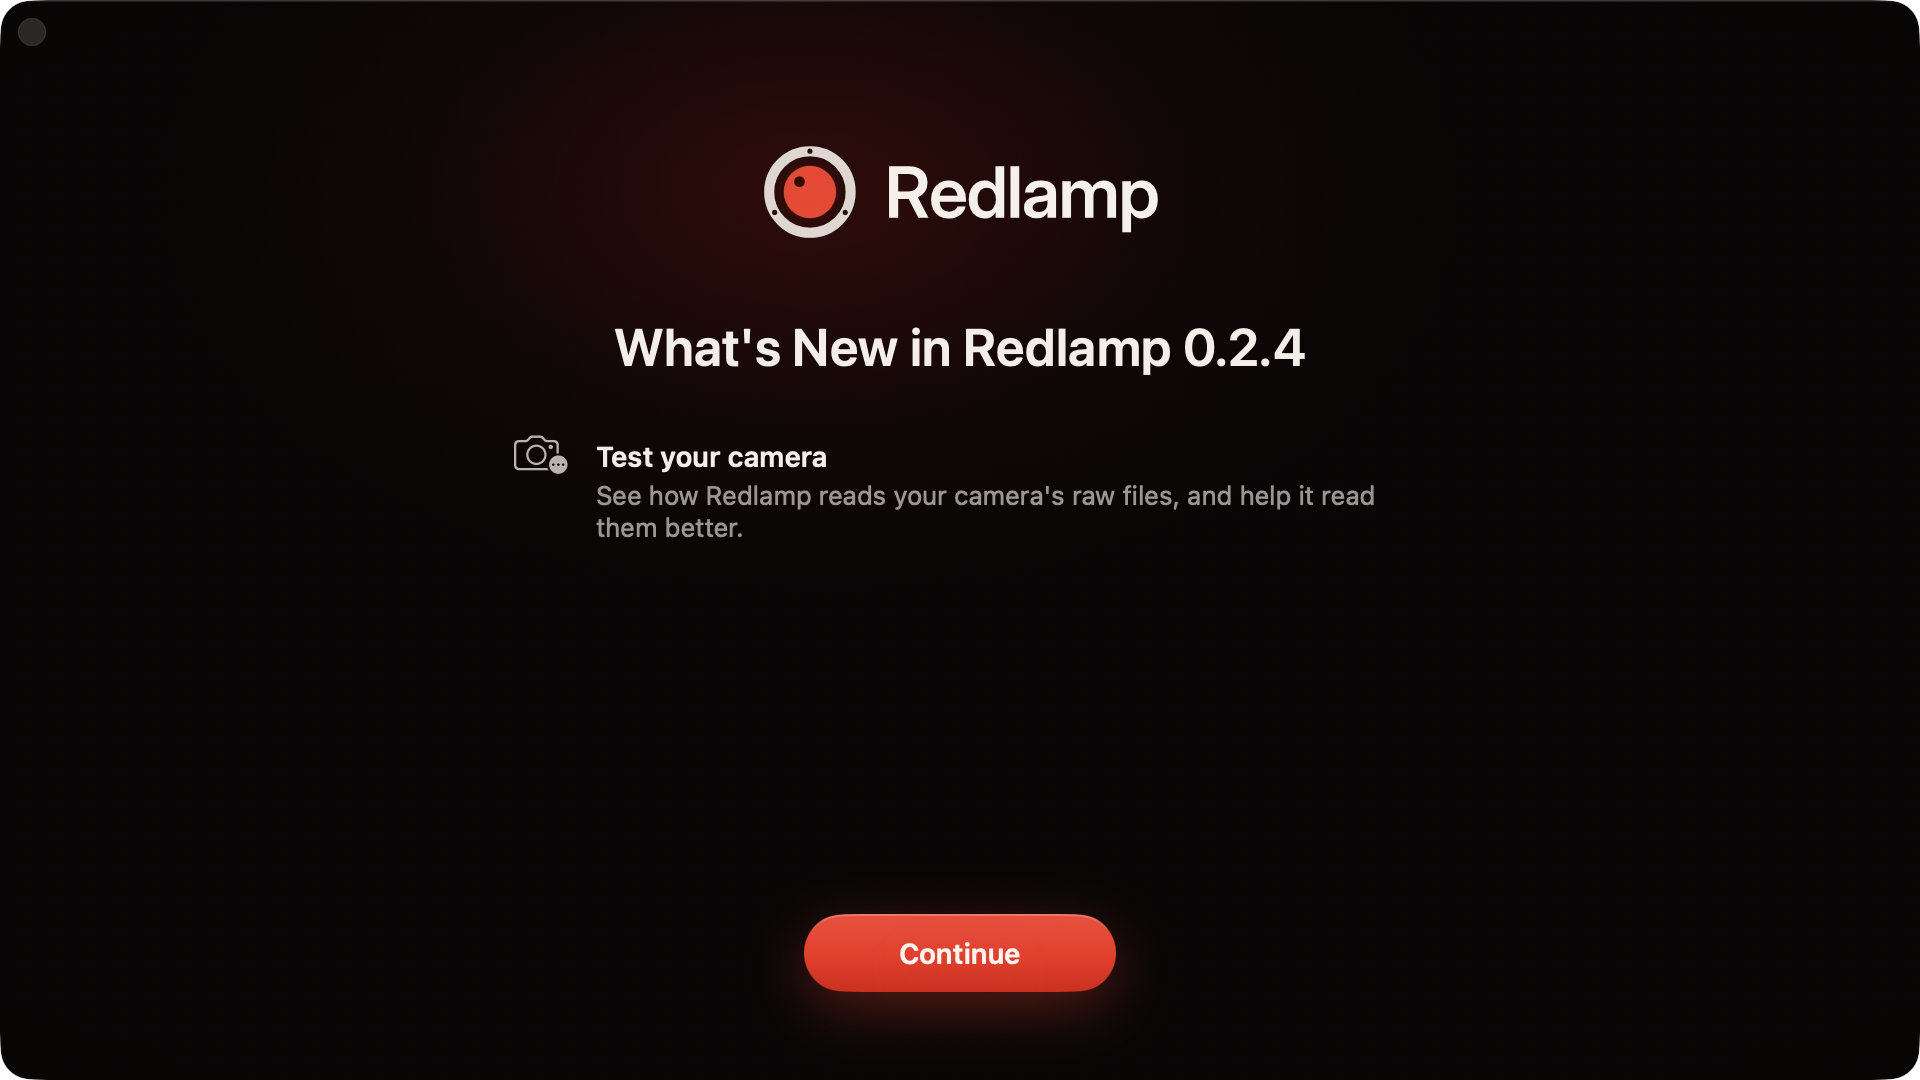
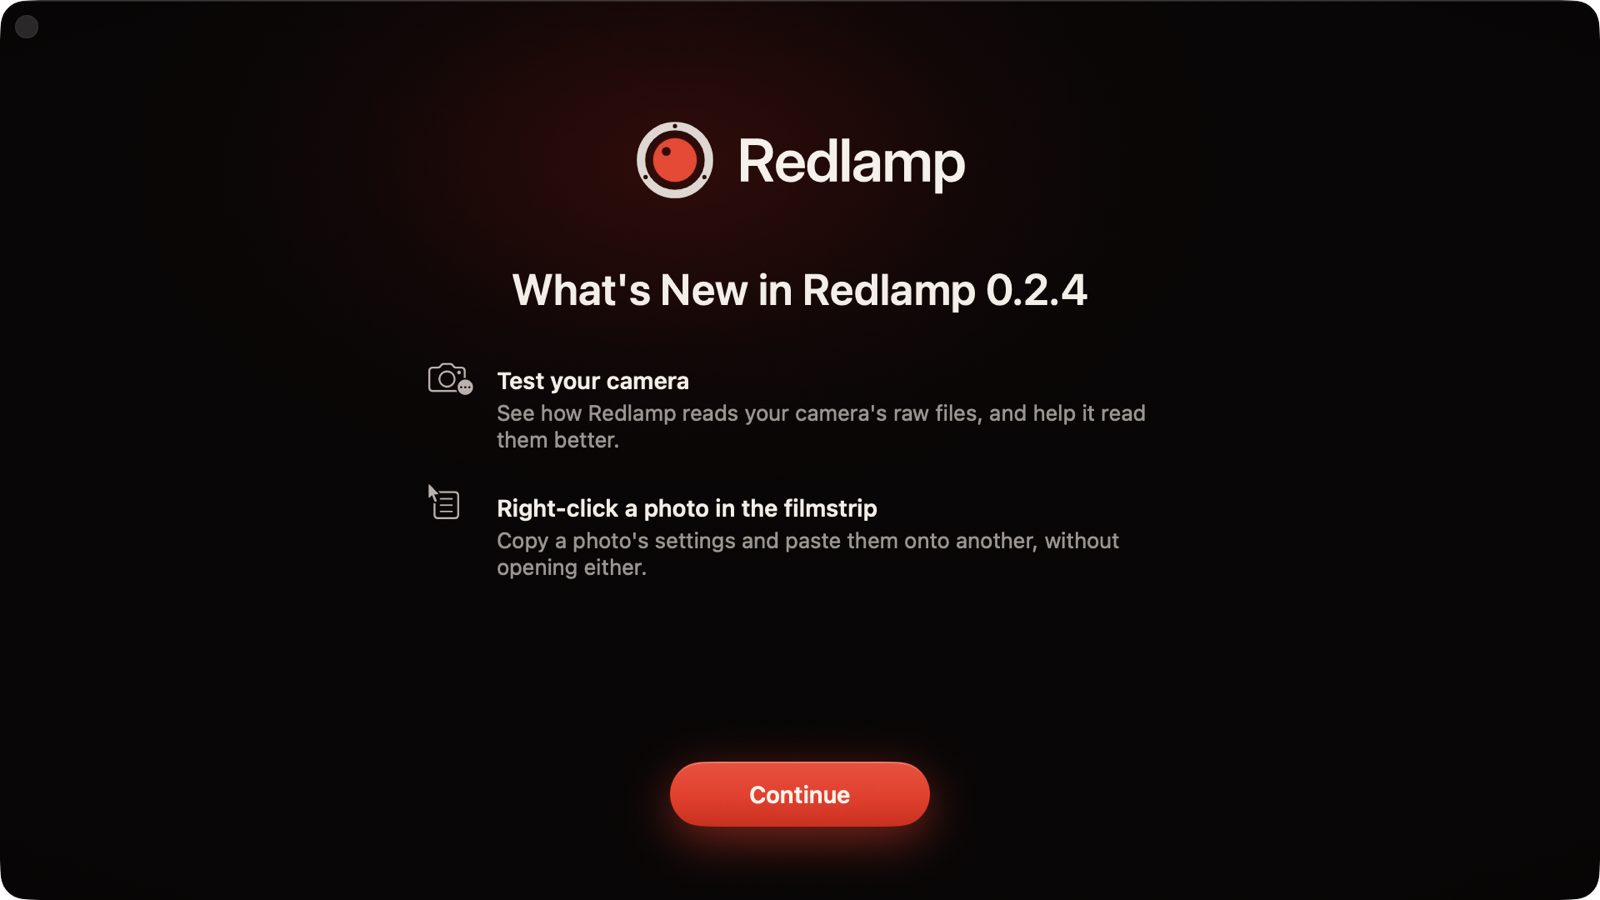
Blog: How I release Redlamp, published, with the release room's Overview, Needs you, Problems and Checks (ARC-07, #212; ARC-08, #213)

Changed region(s): [[0.3125, 0.56, 0.7188, 0.6533], [0.25, 0.5289, 0.2812, 0.56]]

diff --git a/web/content/blog/how-i-release-redlamp/index.md b/web/content/blog/how-i-release-redlamp/index.md
@@ -2,9 +2,8 @@
 title: How I release Redlamp
 summary: Agents build Redlamp on a bunch of branches at once, but a release still needs one person to say yes. This is the room where that happens, and the test suite I'm building to back it up.
 date: 2026-10-05
-cover: whats-new-highlights.png
-coverAlt: Redlamp's What's New window for 0.2.4, listing one highlight, Test your camera, above a lit Continue button
-draft: true
+cover: release-room-overview.png
+coverAlt: The release room for 0.2.4-prealpha in Cursor, with its readiness lines on the left and the Needs you list on the right
 ---
 
 Redlamp's first release went out on the 1st of October. By the evening of the 4th there had been six. That isn't me showing off, it's a symptom. At any moment a bunch of agents are working on Redlamp, each on its own branch in its own copy of the repository, and things land on main all day. As I write this there are more than a dozen of those copies on my SSD.
@@ -26,8 +25,6 @@ That last one isn't hypothetical. CI on main hasn't passed since the morning of 
 So I asked for a skill to prepare releases, with a canvas as the checklist, where nothing runs until I've approved everything. I wanted to keep a chat open on it, or start it whenever, and for it to always know what the latest release is and what the upcoming one is. In my words at the time: treat this canvas and skill as the coordination room where all things release happen.
 
 A canvas is a small React page that Cursor shows beside the chat. Each line of work on Redlamp already keeps one (a [workstream canvas](https://github.com/pdcgomes/redlamp/blob/main/.cursor/skills/workstream-canvas/SKILL.md)), so I can see where it stands without reading the transcript. The release room is the same idea, but there's only ever one: when a release ships, it goes into the room's history and the next one opens.
-
-<!-- image: release-room-overview.png. The release room canvas in Cursor, Overview tab, for 0.2.4-prealpha: the title with its "preparing" stage, the line "Before it ships: …", the Checks passed and Waiting on you stats, the Readiness lines (Scope, What's New, Checks, Problems, Release plan) on the left and the Needs you list on the right. Cropped to the canvas pane only. Caption: "The release room for 0.2.4. Readiness on the left, what's waiting on me on the right." -->
 
 The room doesn't remember versions, it works them out. Every time the skill starts, it runs [`scripts/release-status.py`](https://github.com/pdcgomes/redlamp/blob/main/scripts/release-status.py) first, which asks GitHub and git and nothing else. This is part of what it said this morning:
 
@@ -65,27 +62,31 @@ The part I use most is a list on the right called Needs you. It only holds thing
 
 Each item has three buttons. **Done** and **Skip** fold it away, with an Undo, and the agent picks up my marks the next time it updates the room. **Ask the agent** opens a new chat with the room attached and a prompt naming the item, and marks it "With an agent". So when something needs looking into, like why CI is red, I can hand it off without writing the brief myself.
 
-<!-- image: needs-you.gif. A short screen recording (3 to 5 seconds) of the release room's Needs you list: clicking Done on one item, which folds into the Done section with "Marked done by you … Undo", then clicking Undo so it comes back. Cropped to the Needs you column only. Caption: "Done folds an item away, and Undo brings it back. The agent reads the marks at its next update." -->
+![The release room's Needs you list, before and after the first item is marked done](needs-you.gif "Done folds an item away, and Undo brings it back. The agent reads the marks at its next update.")
 
 The last item is always **Approve the release**, and it always blocks. Its Done button says Approve. Nothing in the release plan runs until I press it or say so in the chat, and even then the agent tells me what it's about to run before it runs it. If anything changes after I approve, say a new commit on origin/main or a check failing again, the approval lapses and it asks again.
 
-For 0.2.4 there are six items as I write this: say what goes in, switch on the camera bench's relay or ship without Send Results, decide each problem, approve What's New's copy, try the release candidate myself, and approve the release. None of them is done yet.
+For 0.2.4 there were six items. Approving What's New's copy is done, so five are left as I write this: say what goes in, switch on the camera bench's relay or ship without Send Results, decide each problem, try the release candidate myself, and approve the release.
 
-<!-- image: release-room-problems.png. The release room's Problems tab: each problem's title and note, its kind and source (failing check · CI, incomplete · CAM-16, risk · git, incomplete · RM-10, limitation · README) and its decision on the right. Cropped to the canvas pane. Caption: "Every known problem waits for a decision, and the decision stays on record." -->
+![The release room's Problems tab, with five problems and the decision on each](release-room-problems.png "Every known problem waits for a decision, and the decision stays on record.")
 
 ## What's New
 
 0.2.4 is also the first release with What's New, a window that opens once after an update with the release's highlights, at most four. Sparkle's update window already lists every commit; this is the short version. Its content comes from redlamp.app rather than the app, so a highlight can be corrected after a release.
 
+![What's New for 0.2.4, listing its two highlights under the logo](whats-new-highlights.png "The highlights, under the logo as it rises.")
+
 ![The Test your camera page in What's New, with a screenshot of the Camera Bench and a Test Your Camera button](whats-new-test-your-camera.png "Each highlight gets a page, and can carry a button that opens the feature.")
 
-That changes the order of things: the highlights have to be live before the release is. In the room, each one goes from candidate to drafted to approved, which only I can do, to published, which means the live feed actually serves it. This release has one, [Test your camera](/blog/testing-cameras-i-dont-own), which has a post of its own.
+That changes the order of things: the highlights have to be live before the release is. In the room, each one goes from candidate to drafted to approved, which only I can do, to published, which means the live feed actually serves it. This release has two, both live already: [Test your camera](/blog/testing-cameras-i-dont-own), which has a post of its own, and copying settings from the filmstrip's right-click menu.
 
 ## The checks, and why my Mac counts more than CI
 
 The checks run on the release candidate: origin/main plus whatever I've put in scope. The main one is every test suite on my Mac, which runs the GPU tests CI skips. Within it, the process-stability tests are read on their own: they render real edits and compare them with what was recorded, and an existing edit that renders differently blocks the release. Then lint, the website's build, a dry run of the release, an update from an older copy through Sparkle (I click Install Update), and performance on a quiet Mac.
 
-Now, CI. The latest finished run on main fails in three places: two dust detection evaluations, the process-stability tests, and a test of the welcome window. I suspect GitHub's runner, at least for the first two, but I don't know yet, and that's exactly the kind of thing I don't want waved through. So in the room it's a problem waiting for my decision. If my Mac passes the same tests, it's probably the runner and I can ship as is. If it doesn't, an edit renders differently, and that blocks the release. The suite hasn't run on the 0.2.4 candidate yet, so for now it says undecided.
+![The release room's Checks tab: CI on main failed, and the other checks not run yet, each with its command](release-room-checks.png "Each check says what it runs and how it went. One that hasn't run says so.")
+
+Now, CI. The latest finished run on main fails in three places: two dust detection evaluations, the process-stability tests, and a test of the welcome window. Some of that may be GitHub's runner rather than Redlamp, but that's exactly the kind of thing I don't want waved through. In the room it was a problem waiting for my decision, and I decided to fix it first. An agent is on it as I write this, on its own branch, and the release waits until CI is green again.
 
 ## The regression suite
 
